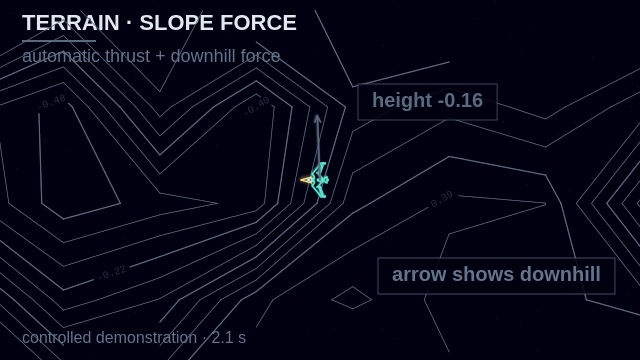
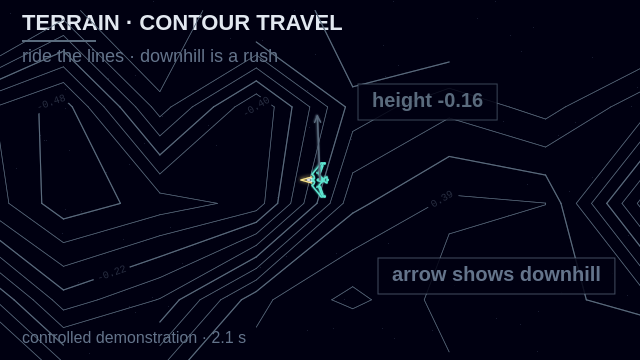
docs(wiki): match controls and terrain demo to contour-travel feel
Controls no longer call steep climbs much slower. The terrain demonstration cites cruise travel helpers and shows contour-travel chrome.

Changed region(s): [[0.0312, 0.1222, 0.4375, 0.1833], [0.2188, 0.0306, 0.5312, 0.0917]]

diff --git a/src/wiki/media.ts b/src/wiki/media.ts
@@ -54,15 +54,16 @@ export const media: Record<string, WikiMediaEntry> = {
     ],
   },
   terrain: {
-    title: 'Terrain slope force',
-    alt: 'A Surveyor thrusts across the contour map while an arrow shows the downhill pull.',
+    title: 'Terrain contours and slope travel',
+    alt: 'A Surveyor thrusts across the contour map while an arrow shows the downhill direction.',
     caption:
-      'Controlled demonstration: contour lines show the landscape while an arrow marks the downhill pull on a ship with automatic thrust.',
+      'Controlled demonstration: automatic thrust rides the contours; an arrow marks downhill so descents look fast and climbs stay a light tax.',
     sources: [
       'src/physics/terrain/heightfield.ts',
       'src/physics/terrain/contours.ts',
       'src/physics/terrain/terrainConfig.ts',
-      'src/physics/terrain/slopeForce.ts',
+      'src/physics/terrain/terrainTravel.ts',
+      'src/entities/ship/cruiseMotion.ts',
       'src/rendering/contourLabels.ts',
     ],
   },

diff --git a/scripts/wiki-media.ts b/scripts/wiki-media.ts
@@ -923,8 +923,8 @@ function makeTerrainDemo(): Demo {
     render: (ctx, frame) => {
       drawFrameChrome(
         ctx,
-        'TERRAIN · SLOPE FORCE',
-        'automatic thrust + downhill force',
+        'TERRAIN · CONTOUR TRAVEL',
+        'ride the lines · downhill is a rush',
         frame,
         PALETTE.CONTOUR
       );

diff --git a/content/wiki/controls.md b/content/wiki/controls.md
@@ -37,8 +37,9 @@ share the same cruise speed. Boost multiplies that cruise and thrust, and
 Surveyor's multiplier is stronger than Hauler's. Each kit page lists its
 handling values. Turns have a capped rate; the arrow ahead of the hull shows
 the current heading. Releasing steering keeps the attained heading and automatic
-thrust. On slopes, your travel direction also includes downhill drift. Steep
-climbs are much slower; descents exceed ordinary cruise and stack with Boost.
+thrust. On slopes, following a contour keeps nearly full cruise with a light
+downhill tug. Steep climbs are only a bit slower; descents more than double
+ordinary cruise and stack with Boost.
 Combat knockback can still push the ship. W and ArrowUp are unbound.
 
 ## Mouse
